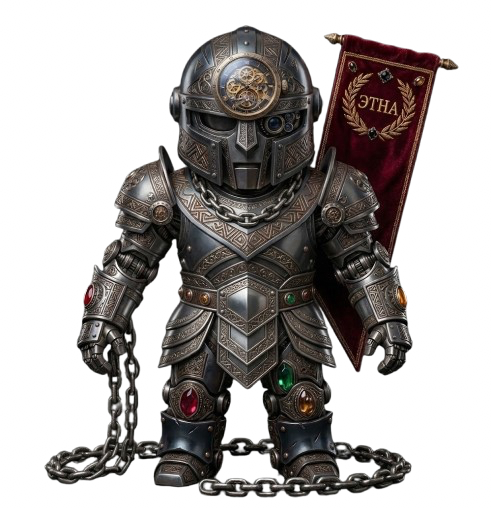
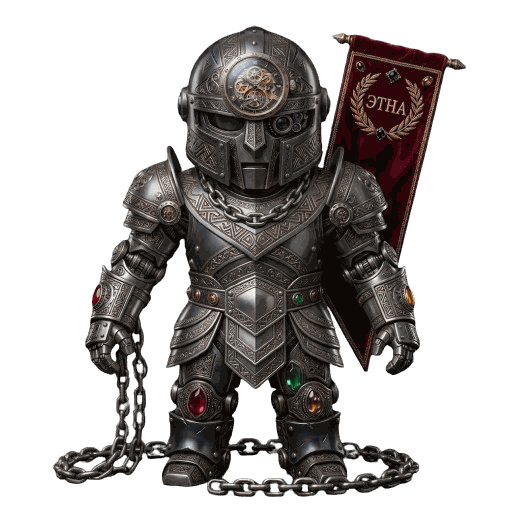
chore(assets): новые куклы 9/13/15/16/17 + оптимизация всех наград (25 МБ → 2,6 МБ)
Заменены пять уровней (у прежних версий был непрозрачный фон — на золотых плашках
вылезал квадрат). Все куклы и тотемы приведены к единому формату: PNG8 256 цветов
с дизерингом, квадратный холст, максимум 768 px по большей стороне, без апскейла
(уровни 18-20 остались 256 px — растягивать нечего).

768 px выбрано под окно награды: оно показывает картинку до 270 CSS-px, на экране
3x это ~810 px. Рецепт записан в docs/totems.md.

Changed region(s): [[0.0916, 0.0591, 0.947, 1.0]]

diff --git a/docs/totems.md b/docs/totems.md
@@ -60,3 +60,21 @@
 UI нет намеренно — строка в `totem_awards` + картинка в `apps/web/assets/totems/`.
 Картинки: PNG с прозрачным фоном, **512×512** (показ 64×64), до ~500 КБ.
 Статика запечена в образ → после добавления картинки нужен `scp` + `docker compose build api`.
+
+## Картинки наград — формат и оптимизация (26.08.2026)
+
+Единый рецепт для кукол уровней и тотемов: **PNG8 (256 цветов, дизеринг Флойда–Стейнберга),
+квадратный холст, максимум 768 px по большей стороне, апскейла нет.**
+
+- 768 px выбрано под самый крупный показ: окно награды открывает картинку до 270 CSS-px,
+  на экране 3× это ~810 px. В интерфейсе куклы показываются мельче (158 / 64 / 48 / 42 px).
+- Квадратный холст — чтобы вертикальные картинки не выглядели мельче квадратных в одном
+  контейнере (`object-fit: contain` вписывает по большей стороне).
+- Мелкие исходники (уровни 18–20 — 256×256) НЕ растягиваем: апскейл только мылит.
+- Прозрачный фон обязателен: куклы лежат на тёмном фоне и на золотых плашках.
+
+Результат разовой оптимизации: **25 МБ → 2,6 МБ (−89%)** без видимой потери качества.
+Уровни 9, 13, 15, 16, 17 заменены новыми версиями (у старых был непрозрачный фон).
+
+Скрипт-рецепт (Pillow): `resize(LANCZOS)` до 768 → квадратный холст → 
+`quantize(colors=256, method=FASTOCTREE, dither=FLOYDSTEINBERG)` → `save(optimize=True)`.
